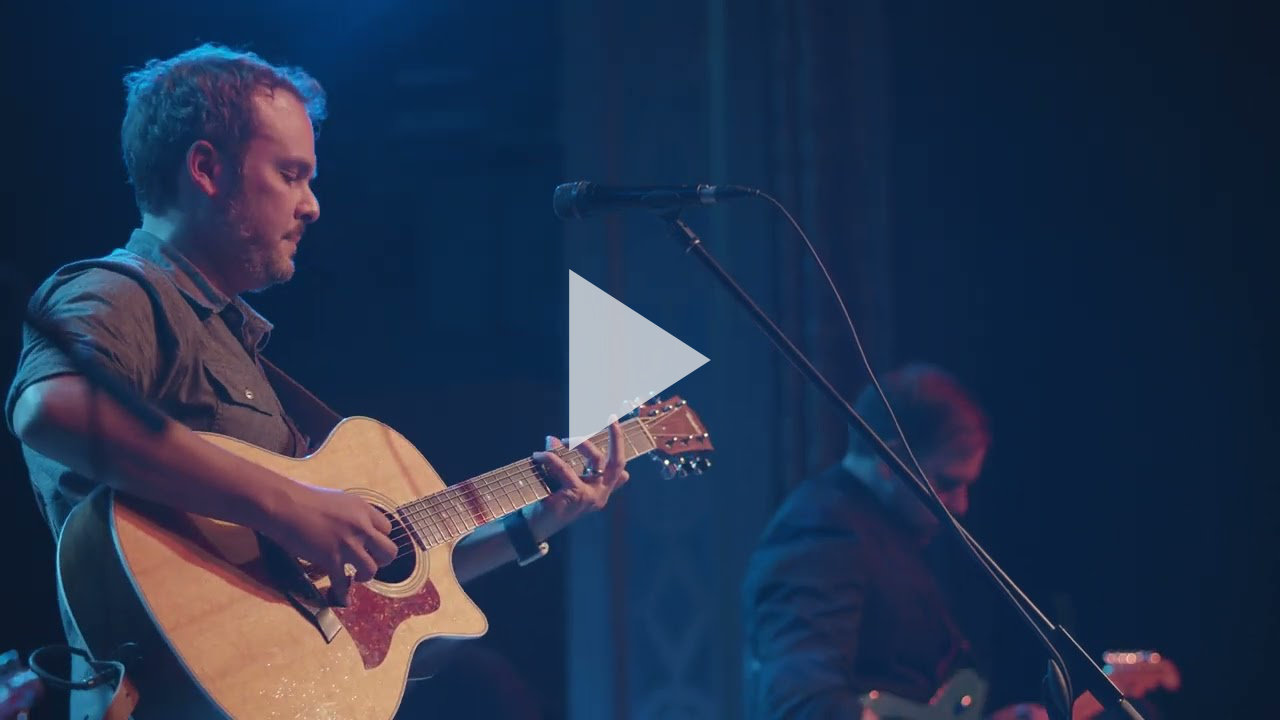
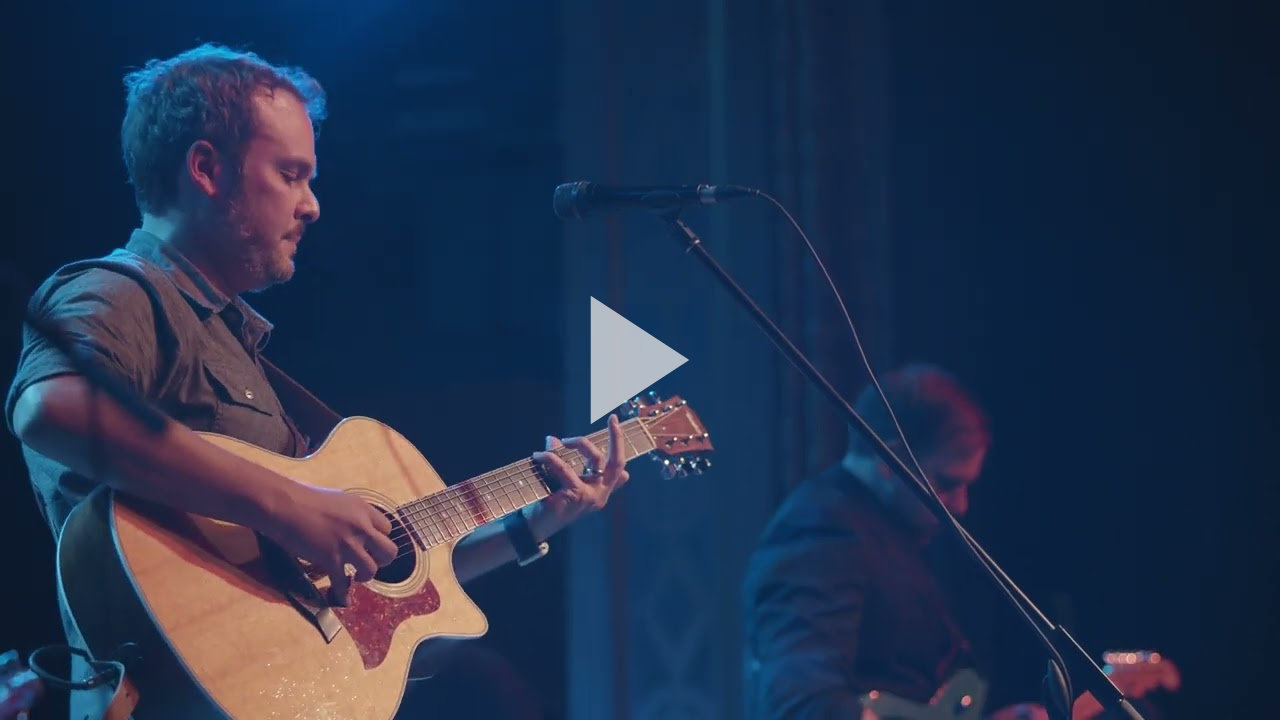
Video and button updates

Changed region(s): [[0.4375, 0.3667, 0.5625, 0.6417], [0.5, 0.5194, 0.5312, 0.55]]

diff --git a/styles/listen.module.scss b/styles/listen.module.scss
@@ -2,9 +2,9 @@
 @import "./mixins.scss";
 
 .listen-content {
-  padding: $margin-large 0;
+  margin: $margin-large 0;
   @include mQ($desktop-small) {
-    padding: $margin-large-desktop-small 0;
+    margin: $margin-large-desktop-small 0;
   }
   h2 {
     text-align: center;
@@ -23,9 +23,32 @@
       background: $black;
       width: 49.5%;
       margin-bottom: 1%;
-      @include mQ($mobile) {
+      position: relative;
+      @include mQ($tablet) {
         width: 100%;
         margin-bottom: 2vw;
+        .video-overlay {
+          opacity: 0.75 !important;
+          p {
+            padding: 10px 0 !important;
+          }
+        }
+      }
+      .video-overlay {
+        position: absolute;
+        left: 0;
+        bottom: 0;
+        width: 100%;
+        background: $black;
+        opacity: 0;
+        transition: $transition opacity;
+        text-align: center;
+        p {
+          color: white;
+          font-family: $roboto-light;
+          font-size: 18px;
+          padding: $margin-xsmall 0;
+        }
       }
       .video {
         width: 100%;
@@ -33,11 +56,13 @@
         border: none;
       }
       .thumbnail-container {
-        cursor: pointer;
         width: 100%;
         height: 100%;
         position: relative;
+        cursor: pointer;
       }
+    } & .video-container:hover .video-overlay {
+      opacity: 0.75;
     }
   }
   .all-audio {

diff --git a/pages/index.js b/pages/index.js
@@ -85,20 +85,24 @@ export const getStaticProps = async () => {
       ],
       videos: [
         {
+          title: "Robbie Christmas - After The Storm [Live]",
           src: "https://www.youtube.com/watch?v=0c1rGBiH_J8&ab_channel=RobbieChristmas",
           thumbnail: "/images/thumbnails/after-the-storm.jpg"
         },
         {
-          src: "https://www.youtube.com/watch?v=b2lK8KqgW6k&ab_channel=RobbieChristmas",
-          thumbnail: "/images/thumbnails/runaway.jpg"
+          title: "Superstar - Robbie Christmas & Company Live [4K]",
+          src: "https://www.youtube.com/watch?v=dUj4-hqkdR4&ab_channel=RobbieChristmas",
+          thumbnail: "/images/thumbnails/superstar.jpg"
         },
         {
+          title: "Taking Too Long - Robbie Christmas & Company Live [4K]",
           src: "https://www.youtube.com/watch?v=Sr6rHW50K-E&ab_channel=RobbieChristmas",
           thumbnail: "/images/thumbnails/taking-too-long.jpg"
         },
         {
-          src: "https://www.youtube.com/watch?v=_omAM4RG13o&ab_channel=RobbieChristmas",
-          thumbnail: "/images/thumbnails/thinkin-bout-you.jpg"
+          title: "Official National Anthem Footage [Sang by Robbie Christmas]",
+          src: "https://www.youtube.com/watch?v=WxEludZzP54&t=67s&ab_channel=RobbieChristmas",
+          thumbnail: "/images/thumbnails/national-anthem.jpg"
         },
       ],
       audio: [

diff --git a/components/sections/Clients.js b/components/sections/Clients.js
@@ -2,6 +2,7 @@ import styles from "@/styles/clients.module.scss";
 import seahawks from "@/public/images/clients/seahawks.png";
 import bensFund from "@/public/images/clients/bens-fund.png";
 import microsoft from "@/public/images/clients/microsoft.png";
+import amazon from "@/public/images/clients/amazon.png";
 import boeing from "@/public/images/clients/boeing.png";
 import brooks from "@/public/images/clients/brooks.png";
 import chateauSteMichelle from "@/public/images/clients/chateau-ste-michelle.png";
@@ -22,6 +23,7 @@ const Clients = () => {
       <div className={styles['clients']}>
         <Image className={styles['client']} src={seahawks} alt="seahawks" />
         <Image className={styles['client']} src={microsoft} alt="microsoft" />
+        <Image className={styles['client']} src={amazon} alt="amazon" />
         <Image className={styles['client']} src={brooks} alt="brooks" />
         <Image className={styles['client']} src={boeing} alt="boeing" />
         <Image className={styles['client']} src={seattleChildrens} alt="seattle childrens" />

diff --git a/components/common/Video.js b/components/common/Video.js
@@ -17,9 +17,14 @@ const Video = ({ video, playing, index, setVideoPlaying }) => {
   return (
     <div className={styles['video-container']}>
       {!playing && 
-        <div className={styles['thumbnail-container']}>
-          <Image className={styles['play-button']} alt="thumbnail" src={video.thumbnail} onClick={() => setVideoPlaying(index)} fill />
-        </div>}
+        <>
+          <div className={styles['thumbnail-container']}>
+            <Image className={styles['play-button']} alt="thumbnail" src={video.thumbnail} onClick={() => setVideoPlaying(index)} fill />
+          </div>
+          <div className={styles['video-overlay']}>
+            <p>{video.title}</p>
+          </div>
+        </>}
       {playing && <iframe className={styles['video']} src={embedUrl} allowFullScreen allow="autoplay" />}
     </div>
   )

diff --git a/styles/calendar.module.scss b/styles/calendar.module.scss
@@ -7,6 +7,10 @@
   .accent-button {
     @include accent-button();
   }
+  .accent-button:hover {
+    border-color: $medium-grey;
+    color: $medium-grey
+  }
   h2 {
     text-align: center;
     margin-bottom: $margin-small;

diff --git a/styles/mixins.scss b/styles/mixins.scss
@@ -28,6 +28,7 @@
   margin: $margin-small 20px 0 0;
   min-width: 150px;
   letter-spacing: 1px;
+  transition: $transition;
   @include mQ($desktop-small) {
     margin: $margin-small-desktop-small 20px 0 0;
   }

diff --git a/styles/accentButton.module.scss b/styles/accentButton.module.scss
@@ -4,3 +4,8 @@
 .accent-button {
   @include accent-button();
 }
+
+.accent-button:hover {
+  border-color: $medium-grey;
+  color: $medium-grey
+}
